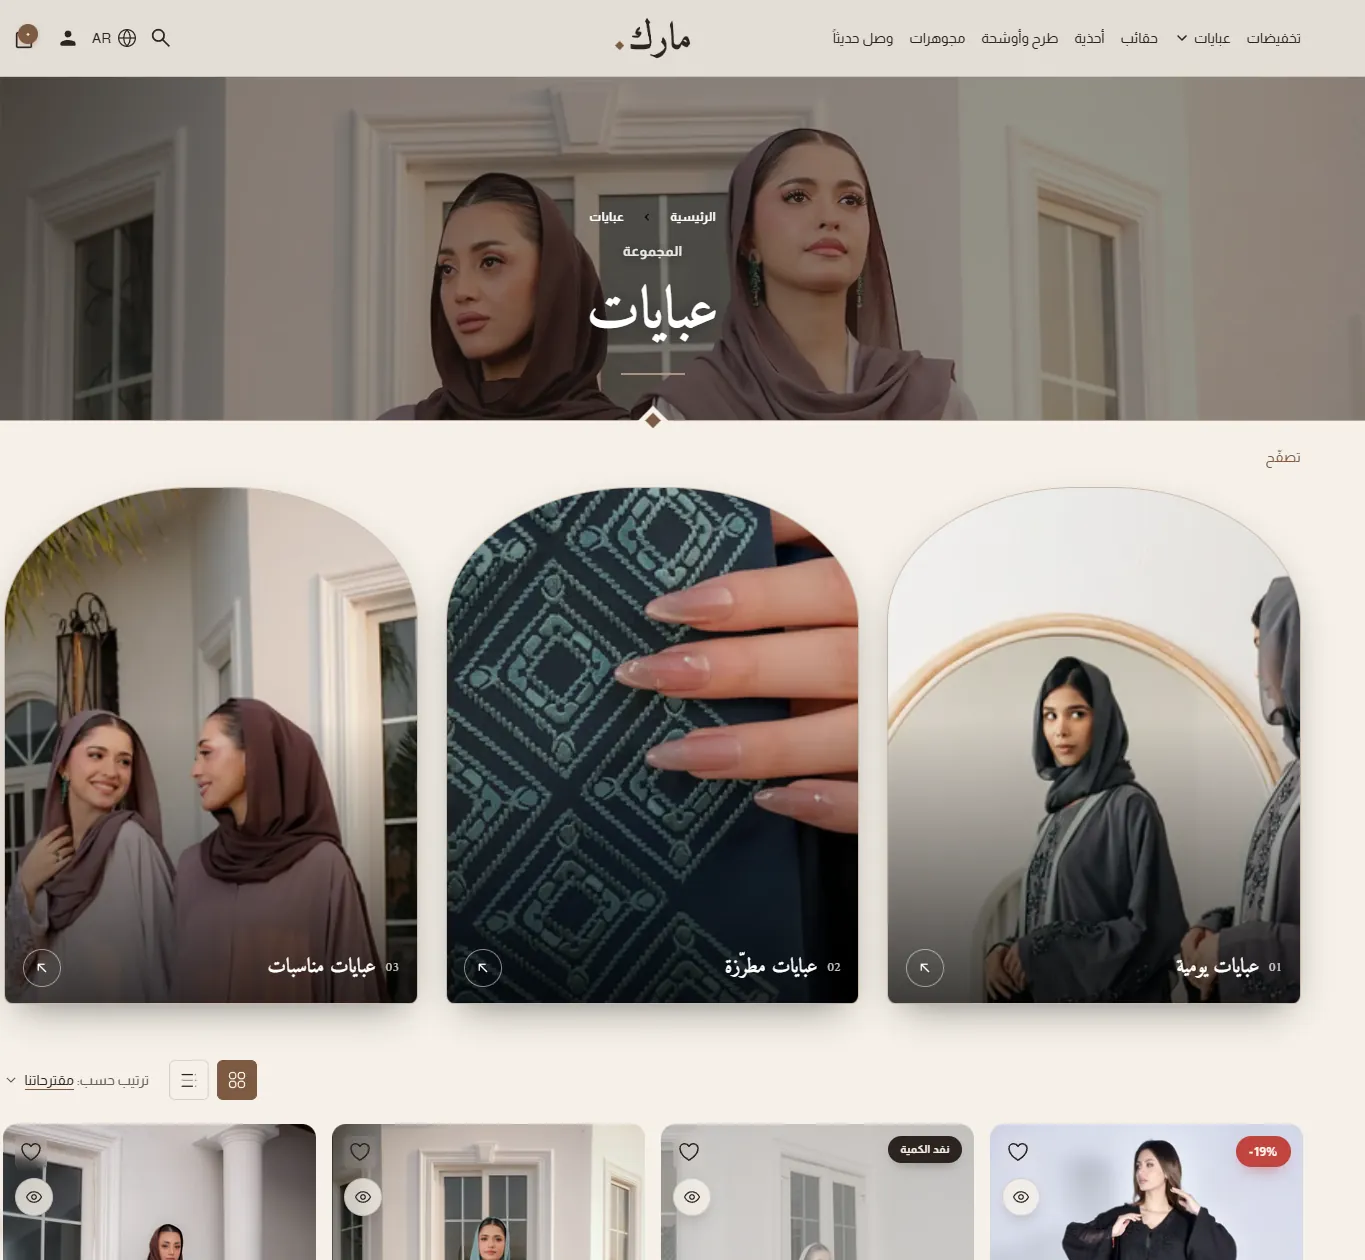
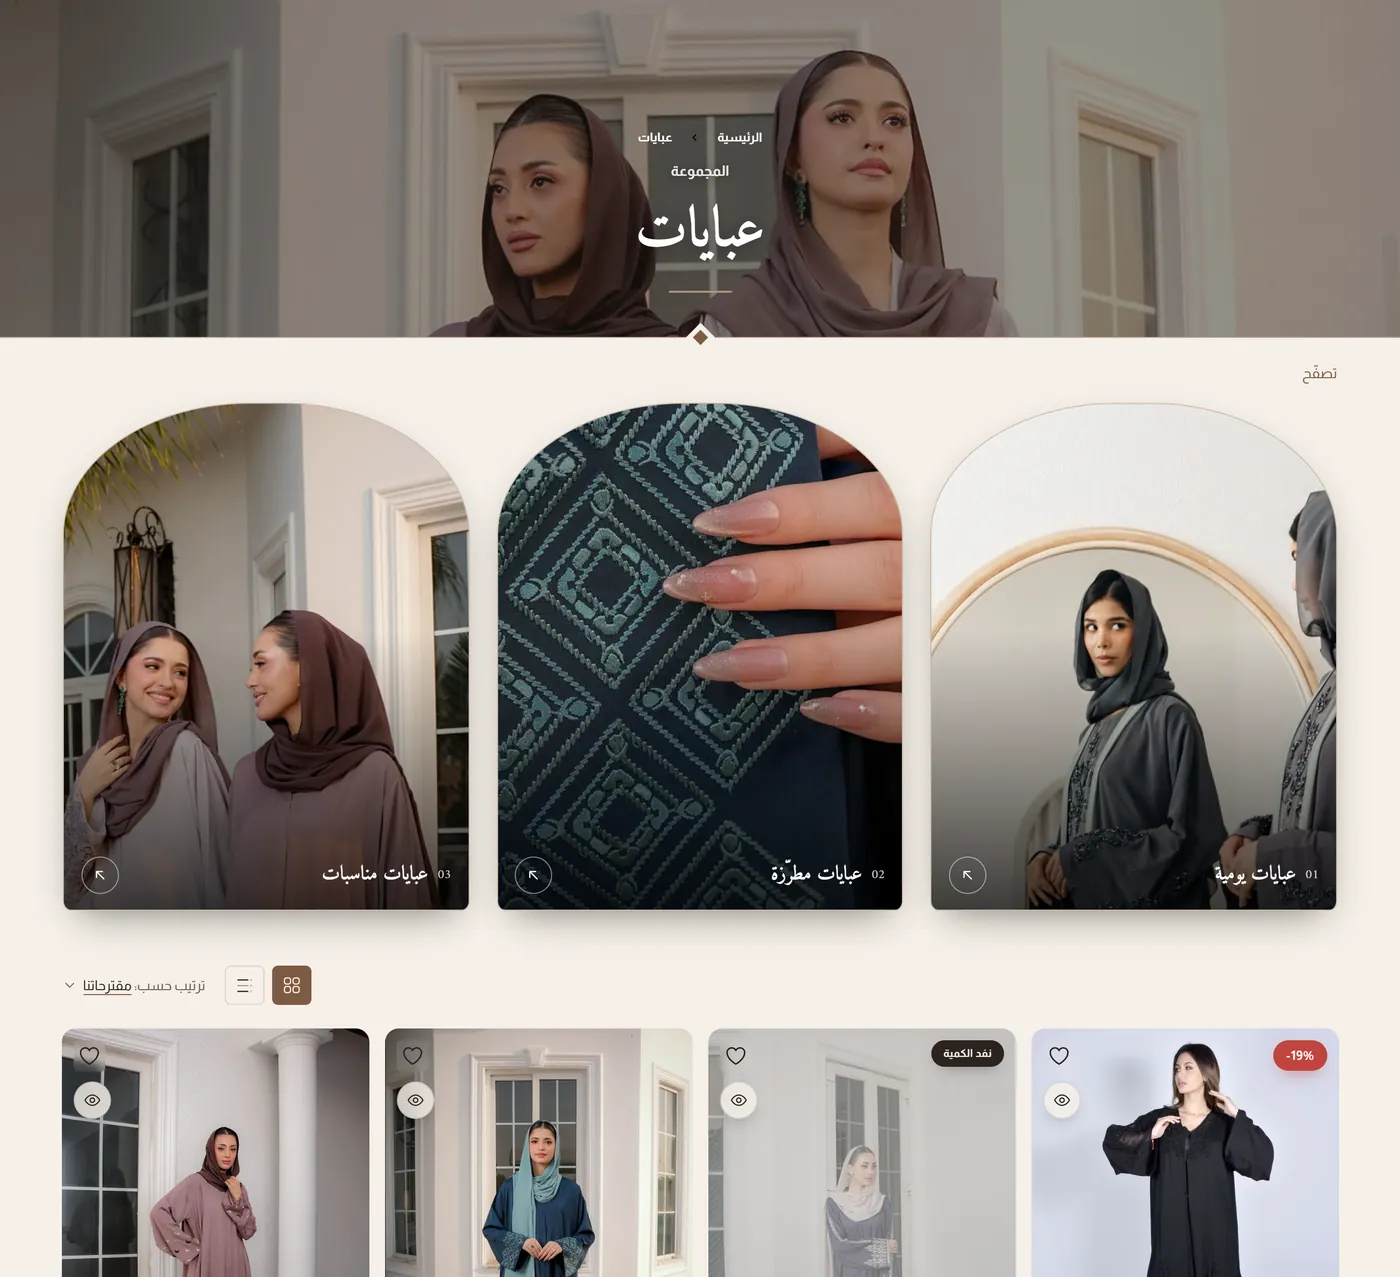
Guide pictures keep their place while loading; more Marc pictures
A section's picture now reserves its box before it loads, so the page does
not jump and a link to a section lands on it.

diff --git a/app/components/ThemeDocs.tsx b/app/components/ThemeDocs.tsx
@@ -363,6 +363,10 @@ function SectionCard({ section, onZoom }: { section: DocSection; onZoom: (pictur
   // the arrows belong to the desktop picture
   const markers = !showsPhone ? (section.markers ?? []) : [];
   const [width, height] = (showsPhone ? section.image_mobile_size : section.image_size) ?? [];
+  // The picture's place is kept before it loads: as wide as the card allows, never taller than
+  // the limit (in rem), always in the picture's own proportions.
+  const limit = markers.length > 0 ? 40 : 34;
+  const room = width && height ? { aspectRatio: `${width} / ${height}`, width: `min(100%, ${((limit * width) / height).toFixed(2)}rem)` } : undefined;
 
   return (
     <article id={section.id} data-doc-section className="card scroll-mt-28 overflow-hidden">
@@ -405,7 +409,7 @@ function SectionCard({ section, onZoom }: { section: DocSection; onZoom: (pictur
           aria-label={isAr ? `تكبير صورة ${title}` : `Enlarge the picture of ${title}`}
         >
           {markers.length > 0 ? (
-            <Annotated src={asset(picture)} alt={title} markers={markers} width={width} height={height} className="block h-auto max-h-[40rem] w-auto max-w-full" />
+            <Annotated src={asset(picture)} alt={title} markers={markers} width={width} height={height} style={room} className={room ? 'block h-auto max-w-full' : 'block h-auto max-h-[40rem] w-auto max-w-full'} />
           ) : (
             // eslint-disable-next-line @next/next/no-img-element
             <img
@@ -415,7 +419,8 @@ function SectionCard({ section, onZoom }: { section: DocSection; onZoom: (pictur
               height={height}
               loading="lazy"
               decoding="async"
-              className={`mx-auto block h-auto max-w-full ${showsPhone ? 'max-h-[34rem] w-auto py-4' : 'max-h-[34rem] w-auto'}`}
+              style={room}
+              className={`mx-auto block h-auto max-w-full ${room ? '' : 'max-h-[34rem] w-auto'} ${showsPhone ? 'my-4' : ''}`}
             />
           )}
         </button>

diff --git a/app/components/Annotated.tsx b/app/components/Annotated.tsx
@@ -51,6 +51,7 @@ export function Annotated({
   className,
   width,
   height,
+  style,
   onPick,
 }: {
   src: string;
@@ -59,6 +60,8 @@ export function Annotated({
   className?: string;
   width?: number;
   height?: number;
+  /** The picture's own size rules (the guide keeps the picture's place before it loads). */
+  style?: React.CSSProperties;
   onPick?: (x: number, y: number) => void;
 }) {
   return (
@@ -72,7 +75,7 @@ export function Annotated({
         loading="lazy"
         decoding="async"
         className={className}
-        style={onPick ? { cursor: 'crosshair' } : undefined}
+        style={onPick ? { ...style, cursor: 'crosshair' } : style}
         onClick={
           onPick
             ? (event) => {
